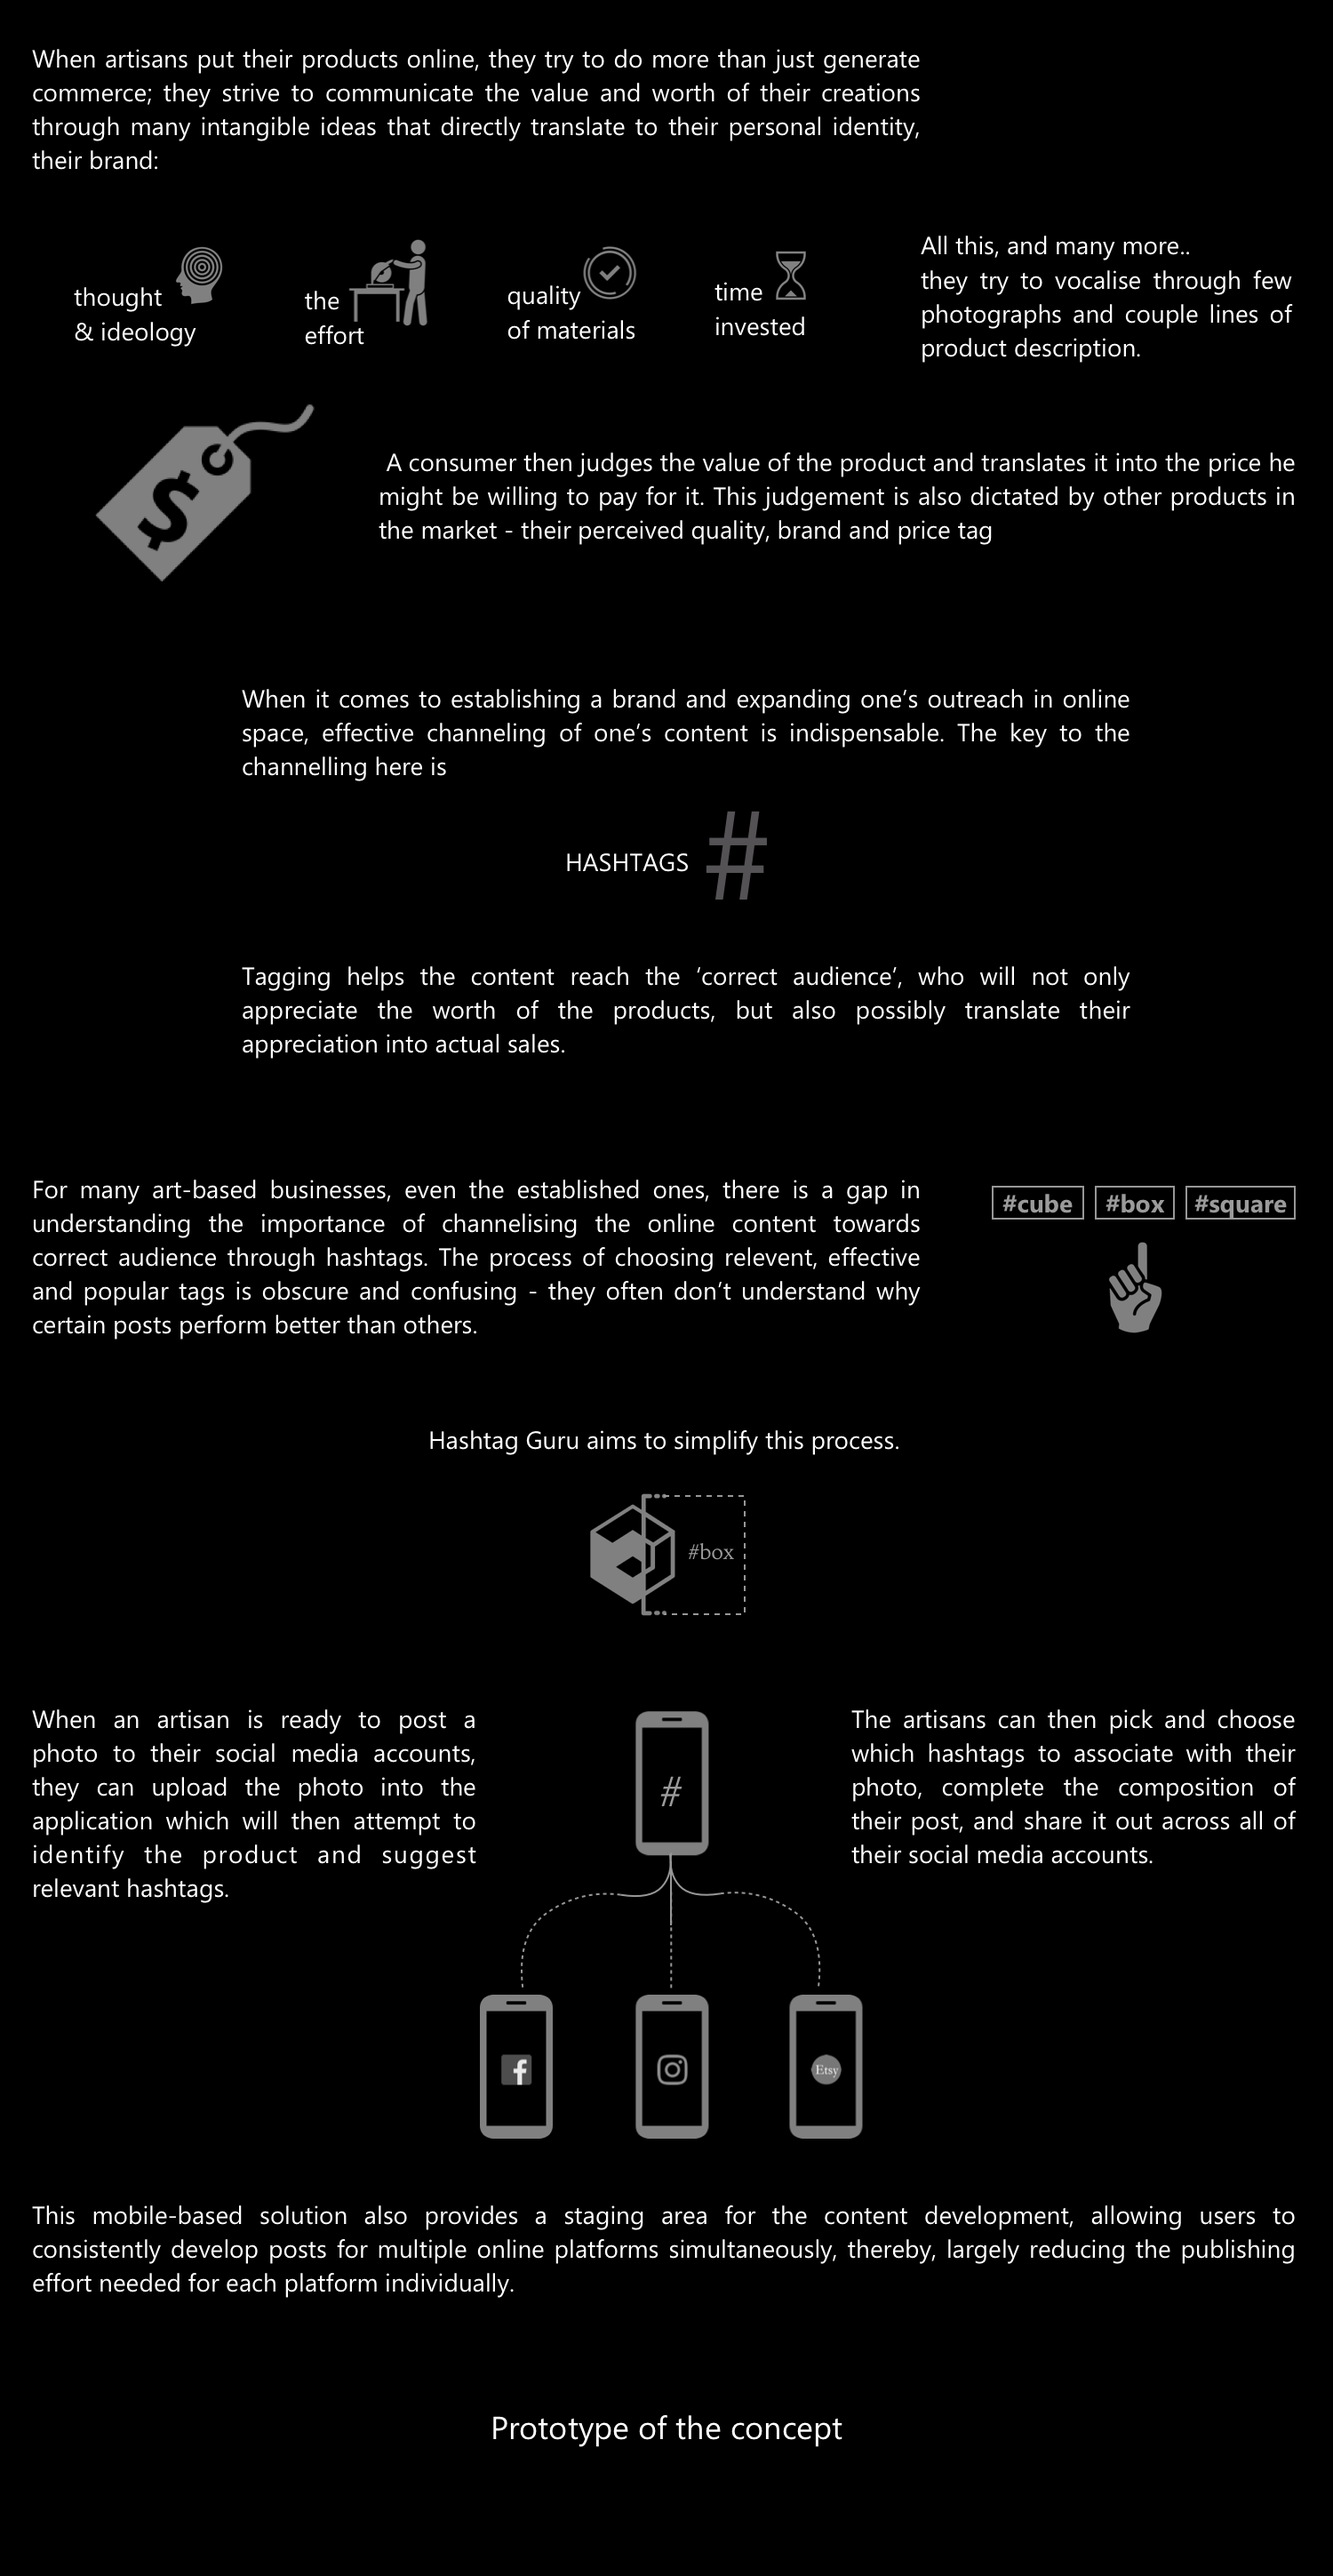
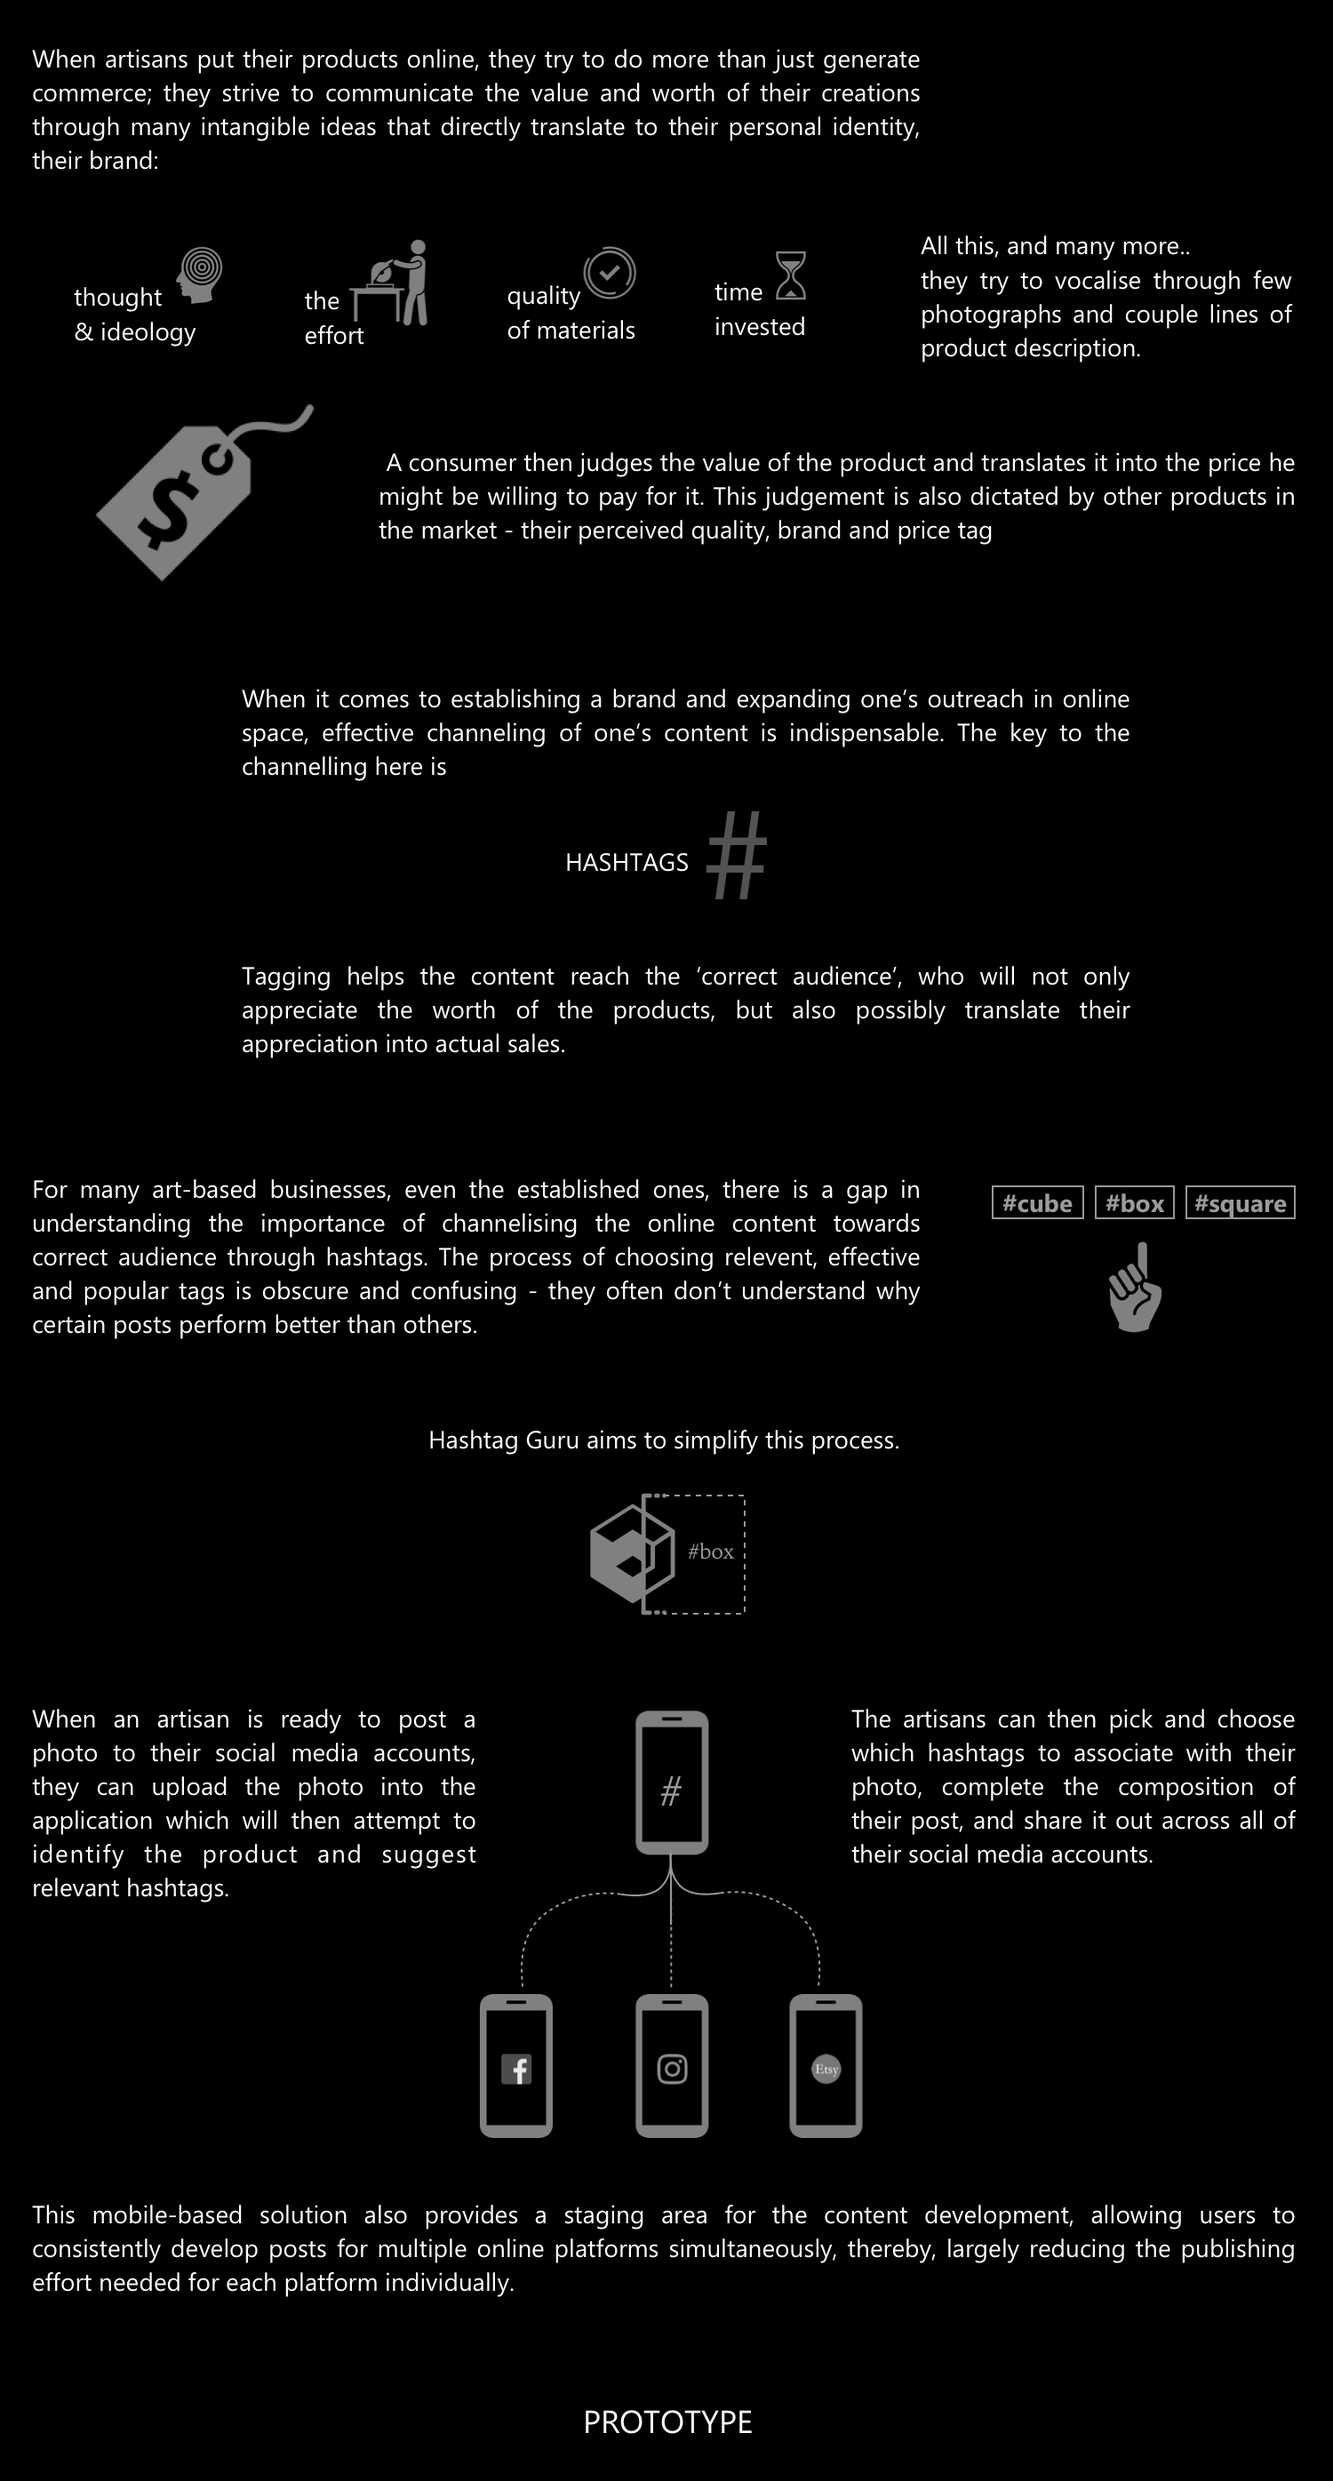
hashtag prototype

diff --git a/hashtag.html b/hashtag.html
@@ -246,7 +246,10 @@ http://miradontsoa.com
                       <img style='height: 100%; width: 100%; object-fit: contain' src="img/HashtagGuru/hashtag-1.png" alt="Hashtag Guru Summary">
                     </div>
                     <div>
-                      <iframe width="250" height="542" src="https://xd.adobe.com/embed/84a6f1c3-3187-4c17-662a-60ca89742699-f297/" style='width:100%; object-fit: contain' frameborder="0" allowfullscreen></iframe>
+                      <iframe width="250" height="542" src="https://xd.adobe.com/embed/84a6f1c3-3187-4c17-662a-60ca89742699-f297/" style='width:101%; object-fit: contain' frameborder="0" allowfullscreen></iframe>
+                    </div>
+                    <div class="img-1">
+                      <img style='height: 100%; width: 100%; object-fit: contain' src="img/HashtagGuru/hashtag-2.png" alt="Hashtag Guru Summary">
                     </div>
                     <br>
                     <br>
